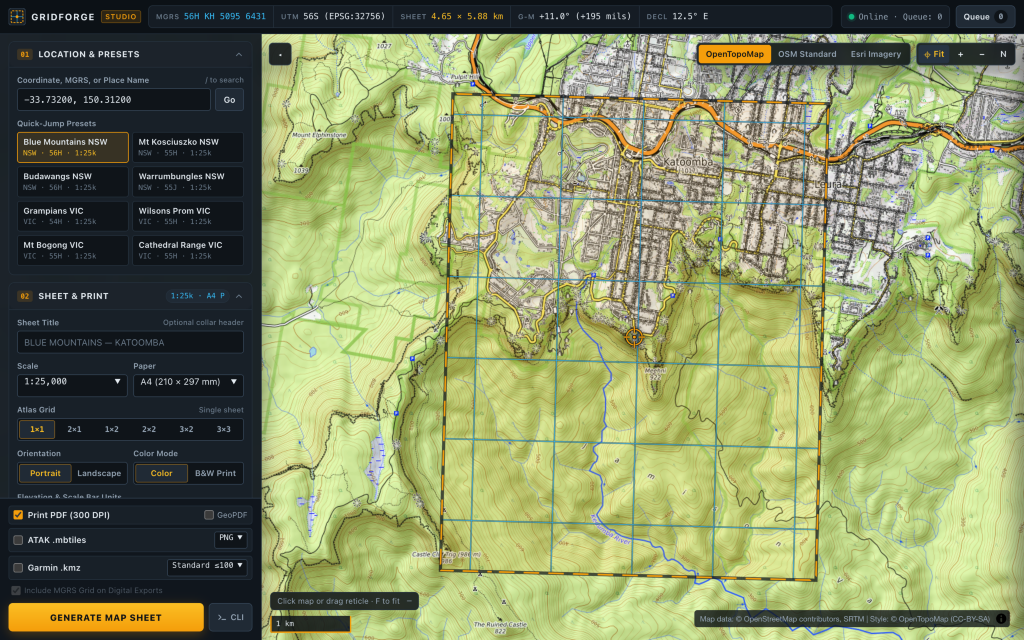
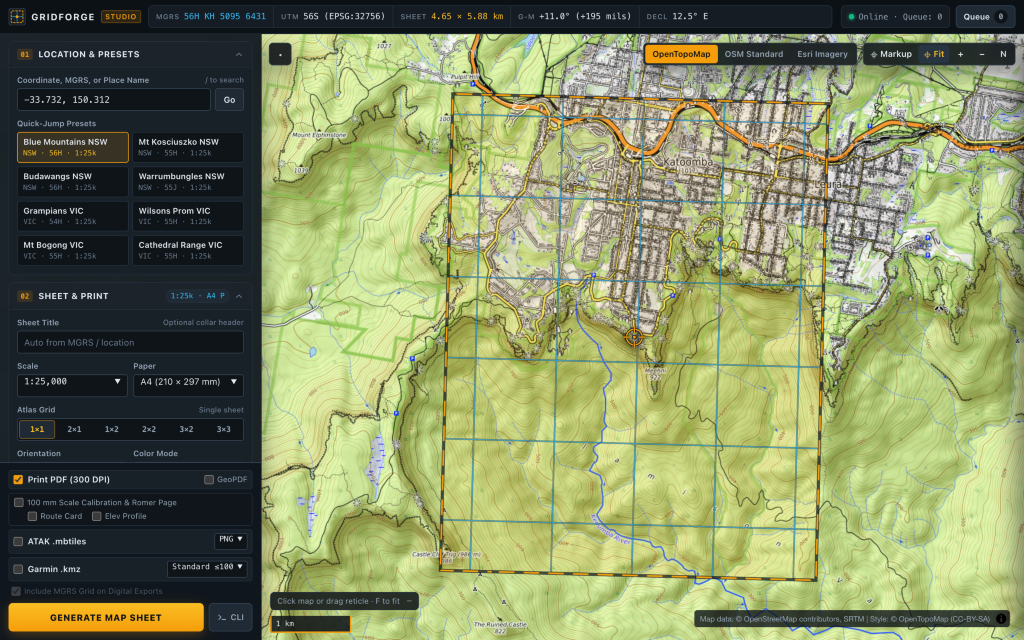
chore(release): prepare v1.1.0 with alpine visuals, changelog, and updated README

diff --git a/src/gridforge/__init__.py b/src/gridforge/__init__.py
@@ -2,6 +2,6 @@
 
 from __future__ import annotations
 
-__version__ = "1.0.0"
+__version__ = "1.1.0"
 
 __all__ = ["__version__"]

diff --git a/README.md b/README.md
@@ -8,10 +8,10 @@
 [![Python 3.12+](https://img.shields.io/badge/Python-3.12%2B-3776AB?logo=python&logoColor=white)](pyproject.toml)
 [![PyQGIS 3.40 LTR](https://img.shields.io/badge/PyQGIS-3.40%20LTR-589632?logo=qgis&logoColor=white)](Dockerfile)
 [![Multi-Arch](https://img.shields.io/badge/Docker-arm64%20%7C%20amd64-2496ED?logo=docker&logoColor=white)](Dockerfile)
-[![Tests](https://img.shields.io/badge/Tests-171%2B%20passing-2ea44f)](tests/)
+[![Tests](https://img.shields.io/badge/Tests-196%2B%20passing-2ea44f)](tests/)
 [![Idle Memory](https://img.shields.io/badge/Idle%20RAM-~124%20MiB-f59e0b)](docker-compose.yml)
 
-True-scale **local UTM** 300 DPI print PDFs · **Multi-sheet Atlas PDFs** · **ATAK `.mbtiles`** · **Garmin Custom Maps `.kmz`** · **Air-gapped offline packs**
+True-scale **local UTM** 300 DPI print PDFs · **GPX Strip Atlases** · **Slope-Angle Shading** · **Tactical Route Cards & 100 mm Romer Pages** · **ATAK `.mbtiles`** · **Garmin `.kmz`**
 
 </div>
 
@@ -53,6 +53,41 @@ Every sheet below was generated directly by GridForge at 300 DPI and verified au
 ### Offline Field Device Exports — ATAK `.mbtiles` & Garmin Custom Maps `.kmz`
 
 ![ATAK MBTiles and Garmin KMZ Offline Exports](docs/images/exports-atak-garmin.jpg)
+
+---
+
+## `v1.1.0` Field Navigation & Alpine Tools
+
+GridForge `v1.1.0` adds five backcountry planning and print-verification tools across both the MapLibre Print Studio UI and CLI:
+
+- **Slope-Angle Avalanche Shading (`--slope-shading`):** Highlights steep `>30° / 35° / 45° / 50°+` alpine terrain on the bottom raster stack while keeping contours, trails, and MGRS lines 100% vector.
+- **NSW & Victoria State Trail, Fire-Trail, Hut & Trig Overlays (`--au-overlay au-nsw-trails`, `--au-overlay au-vic-trails`):** Live CC BY 4.0 fire access trails, 4WD/walking tracks, alpine huts (*Seamans Hut*, *Cleve Cole Hut*), campgrounds, and AHD trig stations directly from **NSW Spatial Services** and **DEECA / Vicmap WFS**.
+- **GPX / GeoJSON Auto-Strip-Map Builder & Elevation Profile (`--strip-route`, `--elevation-profile`):** Auto-fits minimum-count true-scale UTM strip sheets (`S1..Sn`) along any bushwalk track and generates a DEM-sampled Elevation Profile cover page.
+- **Interactive Waypoint Markup & Tactical Route Card (`⌖ Markup` / `M` hotkey, `--waypoint`, `--route-card`):** Drop categorized waypoints (`WP`, `Camp`, `Water`, `Hazard`, `LZ`) directly on the map and print a companion Tactical Route Card with 10-digit MGRS, leg distances, and WMM2025 Grid/Magnetic azimuths (`°` & NATO `mils`).
+- **100 mm Printer Scale Calibration & MGRS Romer Sheet (`--calibration-page`):** Appends an exact `100.00 mm` horizontal/vertical ruler (`0.000 mm` verified error), `4.00 in` bar, cut-out `1:24k / 1:25k / 1:50k` MGRS Romer corners, and `360° / 6400 mil` compass protractor ring.
+
+![Mt Kosciuszko NSW and Grampians VIC Slope Shading and State Trails](docs/images/v11-alpine-slope-trails.jpg)
+
+![Elevation Profile Cover, Tactical Route Card, and 100 mm Calibration and MGRS Romer Page](docs/images/v11-field-supplements.jpg)
+
+```bash
+# Mt Kosciuszko Alpine Sheet + Slope Shading + NSW Fire Trails/Huts/Trigs + Waypoints + Route Card + 100 mm Calibration
+docker run --rm -v "$(pwd)/out:/out" gridforge:dev \
+  gridforge render --center "-36.456,148.263" --scale 25000 --paper a4 \
+    --dem-source au-elvis --au-overlay au-nsw-trails --slope-shading \
+    --waypoint "Mt Kosciuszko Summit,-36.4559,148.2636,waypoint" \
+    --waypoint "Rawson Pass,-36.4631,148.2736,hazard" \
+    --waypoint "Seamans Hut,-36.4535,148.2877,camp" \
+    --route-card --calibration-page --title "MT KOSCIUSZKO — ALPINE NSW" \
+    --output /out/kosciuszko_25k_a4_alpine_color.pdf
+
+# Auto-Fit Bushwalk Strip Atlas from GPX/GeoJSON + Elevation Profile + 100 mm Calibration Page
+docker run --rm -v "$(pwd)/out:/out" -v "$(pwd)/examples:/examples:ro" gridforge:dev \
+  gridforge render --strip-route /examples/katoomba_route.geojson --scale 25000 --paper a4 \
+    --dem-source au-elvis --au-overlay au-nsw-trails --slope-shading \
+    --elevation-profile --calibration-page --title "KATOOMBA BUSHWALK STRIP ATLAS" \
+    --output /out/katoomba_strip_atlas.pdf
+```
 
 ---
 
@@ -178,7 +213,8 @@ Measured on an Apple Silicon **M5 (16 GB RAM)** host running native `linux/arm64
 | **Warm-cache A4 300 DPI render time** | **`2.25 s`** (Katoomba B&W) / **`5.92 s`** (Boulder 1 m LiDAR) | Fast interactive turnaround |
 | **1 km MGRS physical grid accuracy** | **`0.0046 mm`** (Letter 1:24k) / **`0.0185 mm`** (A4 1:25k) | `≤ 0.15 mm` protractor tolerance |
 | **MGRS grid orthogonality skew** | **`0.0000 mm`** across all tested UTM zones | `< 0.05 mm` |
-| **Automated test suite (`pytest`)** | **`171+` offline unit & integration tests passing** | Runs offline inside `gridforge:dev` |
+| **Automated test suite (`pytest`)** | **`196+` offline unit & integration tests passing** | Runs offline inside `gridforge:dev` |
+| **100 mm Calibration ruler accuracy** | **`0.0000 mm` error / `0.0000 mm` skew** (H & V) | `≤ 0.15 mm` |
 
 ---
 
@@ -198,8 +234,8 @@ src/gridforge/
 web/                       # TypeScript + Vite + MapLibre GL JS self-hosted tactical print studio SPA
 config/osmconf.ini         # Shared GDAL OSM driver schema for online & air-gapped parity
 assets/
-├── icons/                 # 18 crisp self-contained military/topo/Outback SVG symbols
-└── styles/{color,bw}/     # 62 native QGIS 3.40 Color & dedicated laser-print B&W .qml styles
+├── icons/                 # 21 crisp self-contained military/topo/Outback/alpine SVG symbols
+└── styles/{color,bw}/     # 72 native QGIS 3.40 Color & dedicated laser-print B&W .qml styles
 examples/                  # Sample Blue Mountains GeoJSON route overlay & runnable CLI cookbook
 ```
 
@@ -215,8 +251,8 @@ docker run --rm -e GRIDFORGE_RUN_LIVE=1 -v "$(pwd):/app" gridforge:dev pytest te
 
 ## Roadmap & Backlog
 
-- **`v1.1` (In Progress):** High-resolution **NSW & Victoria state trail, fire-trail, hut, campground & trig station** layers (CC BY 4.0 NSW Spatial Services / NPWS & Vicmap / DEECA), interactive route & waypoint planning tools, and corridor / multi-sheet print enhancements.
-- **Backlog:** **Air-Gapped Web Basemap Mode** (self-hosted local PMTiles/MBTiles basemap option in the MapLibre Studio UI for fully disconnected deployments), additional regional LiDAR providers, and batch/corridor strip-map generation.
+- **Shipped in `v1.1.0`:** NSW & Victoria state fire-trail/hut/trig layers, GDAL slope-angle avalanche shading, GPX/GeoJSON auto-strip-map builder + elevation profile cover, interactive waypoint markup + tactical route cards, and 100 mm printer scale calibration & MGRS Romer pages.
+- **Backlog (`v1.2+`):** **Air-Gapped Web Basemap Mode** (self-hosted local PMTiles/MBTiles basemap option in the MapLibre Studio UI for fully disconnected deployments), additional regional LiDAR providers (QLD/TAS/NZ/EU), and custom legend/collar branding profiles.
 
 ---
 
@@ -228,6 +264,8 @@ docker run --rm -e GRIDFORGE_RUN_LIVE=1 -v "$(pwd):/app" gridforge:dev pytest te
 | **OpenStreetMap** | Global roads, trails, rail, water, buildings, landcover, POIs | **ODbL** — Map data © OpenStreetMap contributors (`openstreetmap.org/copyright`) |
 | **Geoscience Australia / DEA** | Australia 5 m LiDAR (2025) & SRTM 1s (`AHD`), Surface Hydrology, Electricity/Pipelines, Aviation/Homesteads | **CC BY 4.0** — © Commonwealth of Australia (Geoscience Australia / Digital Earth Australia) |
 | **DCCEEW CAPAD 2025** | Australia National Parks, Nature Reserves, IPAs | **CC BY 4.0** — © Commonwealth of Australia (DCCEEW) |
+| **NSW Spatial Services (DCS)** | NSW Fire Trails, 4WD/Walking Tracks, Huts, Campgrounds & GDA2020 Trig Stations (`au-nsw-trails`) | **CC BY 4.0** — © State of New South Wales (Spatial Services, DCS) |
+| **Victoria DEECA / DTP Vicmap** | Victoria 4WD/Fire Access Tracks, Walking Trails, Alpine Huts, Campgrounds & Survey Marks (`au-vic-trails`) | **CC BY 4.0** — © State of Victoria (DEECA / DTP Vicmap) |
 | **Copernicus WorldDEM-30** | Global 30 m elevation (`EGM2008`) | **Copernicus DEM License** — © DLR e.V. 2010–2014 & © Airbus Defence and Space GmbH 2014–2018, EU & ESA |
 | **USGS 3DEP / NHD / FEMA / FAA / NOAA** | US 1 m & 10 m DEM (`NAVD88`), NHD streams, NFHL flood zones, DOF obstacle towers, ENC charts | **US Public Domain** |
 | **NOAA / NCEI WMM2025** | Global magnetic declination & secular variation (`2025.0–2030.0`) | **US Public Domain** |

diff --git a/CHANGELOG.md b/CHANGELOG.md
@@ -5,6 +5,26 @@ All notable changes to **GridForge** are documented in this file.
 The format is based on [Keep a Changelog](https://keepachangelog.com/en/1.1.0/),
 and this project adheres to [Semantic Versioning](https://semver.org/spec/v2.0.0.html).
 
+## [1.1.0] - 2026-11-26
+
+Field navigation, backcountry alpine cartography, and print-verification release adding five high-impact operational tools across the CLI, PyQGIS renderer, and MapLibre Print Studio.
+
+### Added
+
+- **GPX / GeoJSON Auto-Strip-Map Builder & Elevation Profile (`--strip-route`, `--elevation-profile`, `POST /api/strip-plan`):**
+  - Upload or pass any `.gpx` or `.geojson` route to automatically plan minimum-count, true-scale UTM strip sheets (`S1..Sn`) with configurable overlap (`--overlap-pct`) covering 100% of the track in one locked UTM projection.
+  - Samples route elevations directly from the rendered DEMs and generates a crisp vector **Route Overview & Elevation Profile** cover page with total distance, cumulative ascent/descent, min/max elevation, and strip sheet index table.
+- **100 mm Printer Scale Calibration & True-Scale MGRS Romer Page (`--calibration-page`):**
+  - Appends a mathematically verified pure-vector calibration sheet featuring exact **`100.00 mm`** horizontal & vertical metric rulers (`0.000 mm` verified error/skew), a **`4.00 in` (`101.60 mm`)** imperial bar, cut-out **MGRS Romer Scale Corners** (`1:25,000`, `1:24,000`, `1:50,000`), and a `360° / 6400 NATO mil` compass protractor ring so users can confirm 100% / Actual Size printing before going into the field.
+- **Interactive Waypoint Markup & Tactical Route Card (`--waypoint`, `--route-card`, `POST /api/route-metrics`):**
+  - Drop numbered category-coded waypoints (`WP`, `Camp`, `Water`, `Hazard`, `LZ`) directly on the MapLibre Studio map (`⌖ Markup` / `M` hotkey) or pass repeatable `--waypoint` CLI flags, rendered directly onto the map sheet with dashed route legs.
+  - Generates a companion **Tactical Route Card** PDF page listing every waypoint's 10-digit MGRS coordinate, lat/lon, elevation, leg distance, cumulative distance, and WMM2025 Grid & Magnetic azimuths in degrees and NATO mils.
+- **GDAL Slope-Angle Avalanche Shading (`--slope-shading`):**
+  - Computes discrete steepness bands (`>30°` amber/orange/red/purple avalanche terrain in Color; high-contrast tonal bands in B&W) on the bottom raster stack above hillshade so all contours, trails, and 1 km MGRS lines remain 100% crisp vector.
+- **NSW & Victoria State Trail, Fire-Trail, Hut & Trig Overlays (`--au-overlay au-nsw-trails`, `--au-overlay au-vic-trails`):**
+  - Live CC BY 4.0 integration with **NSW Spatial Services** (`NSW_Transport_Theme`, `SurveyMarkGDA2020`, `NSW_POI`, `NSW_Features_of_Interest_Category`) and **DataVic / DEECA Vicmap** WFS (`tr_road`, `recweb_tracks`, `foi_point`, `recweb_hut`, `recweb_site`, `geomark_point`) bringing high-visibility burnt-orange fire trails, 4WD/walking tracks, alpine huts, campgrounds, and trig stations (`21` SVG icons, `72` native QGIS 3.40 `.qml` styles).
+- **Automated Verification (`196+` offline CI tests):** Extended `tests/integration/verify_pdf.py` with `verify_calibration_page()` (`100.00 mm ± 0.15 mm` vector ruler verification) and added `tests/integration/test_v11_usability.py` covering Mt Kosciuszko NSW, Grampians VIC, and Katoomba Bushwalk Strip Atlas E2E renders.
+
 ## [1.0.0] - 2026-11-26
 
 First stable public release of **GridForge** — an open-source, self-hostable military-style MGRS topographic map generator, print studio web app, and offline field device exporter.
